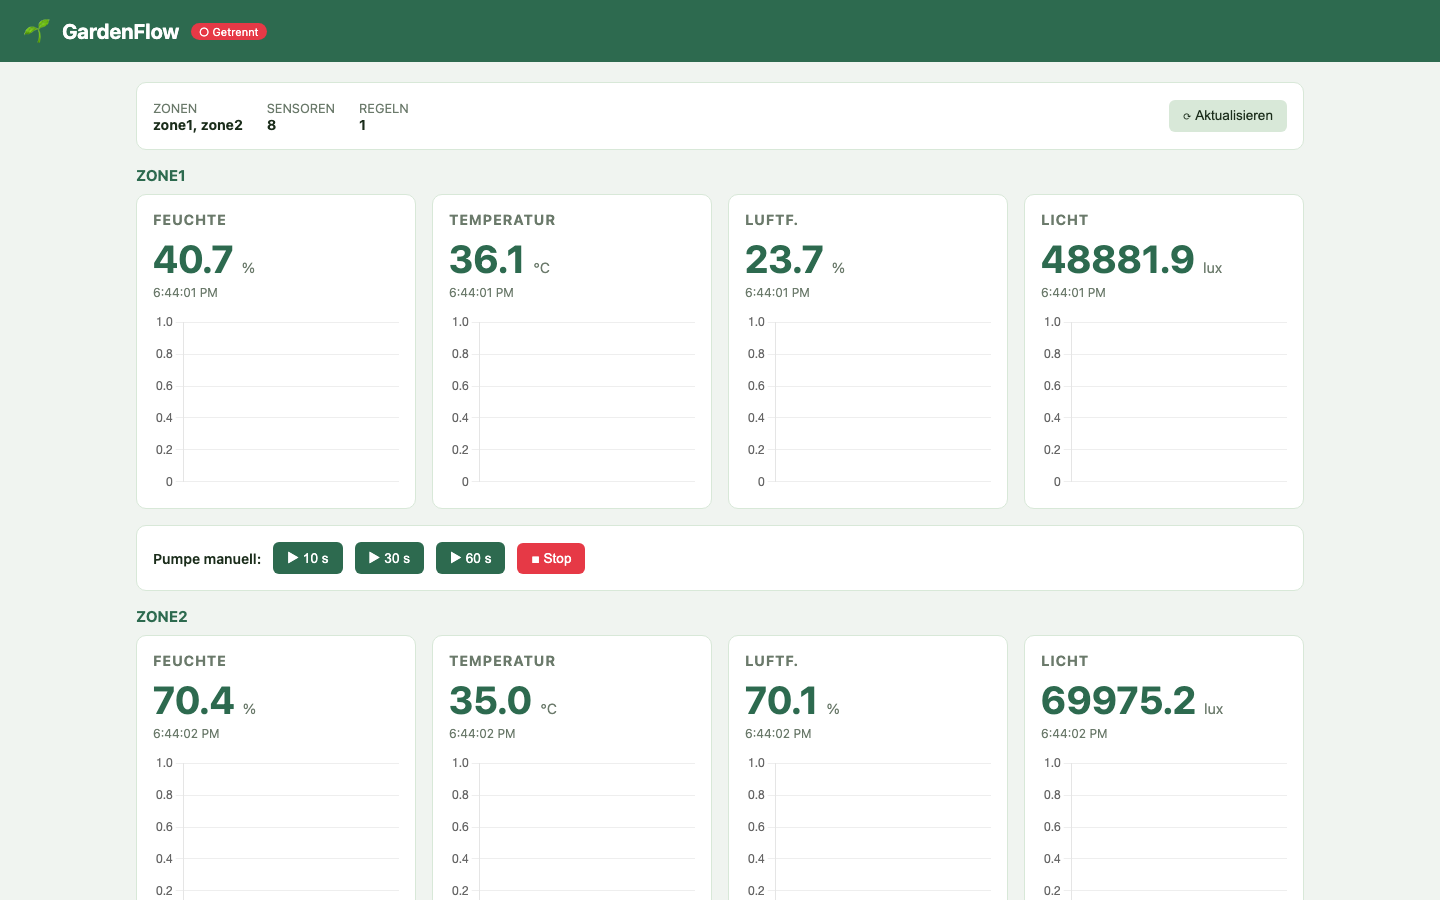
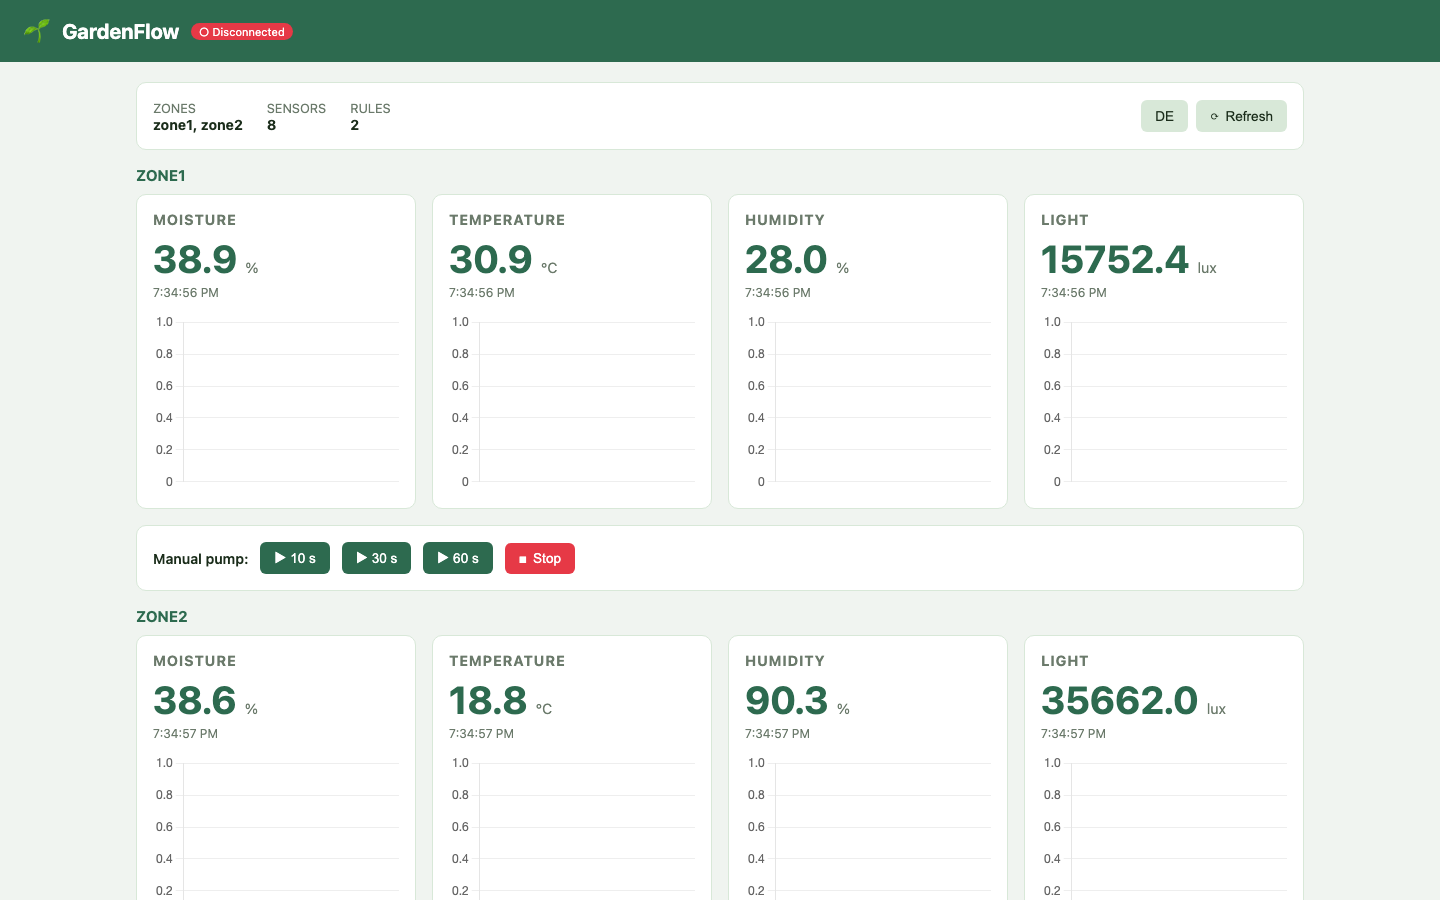
feat: add English/German language toggle to dashboard, default to English
The dashboard UI was hardcoded German with no way to switch language.
Adds a small translation dictionary in app.js, a language toggle button
next to Refresh, and persists the choice in localStorage. Defaults to
English so the primary README screenshot reflects a UI new users
without German actually see.

diff --git a/frontend/assets/app.js b/frontend/assets/app.js
@@ -2,6 +2,31 @@ const API  = window.location.origin;
 const WS   = (window.location.protocol === "https:" ? "wss://" : "ws://") + window.location.host + "/ws";
 const MAX_POINTS = 60;
 
+const TRANSLATIONS = {
+  en: {
+    live: "Live", disconnected: "Disconnected",
+    zones: "ZONES", sensors: "SENSORS", rules: "RULES", refresh: "Refresh",
+    waitingSensors: "Waiting for sensor data. Start",
+    waitingSensorsSuffix: "to simulate data.",
+    manualPump: "Manual pump:", stop: "Stop",
+    automationRules: "Automation Rules",
+    noRules: "No rules yet. Create one via",
+    confirmDeleteRule: "Delete rule?",
+    sensorTypes: { moisture: "Moisture", temperature: "Temperature", humidity: "Humidity", light: "Light" },
+  },
+  de: {
+    live: "Live", disconnected: "Getrennt",
+    zones: "ZONEN", sensors: "SENSOREN", rules: "REGELN", refresh: "Aktualisieren",
+    waitingSensors: "Warte auf Sensordaten. Starte",
+    waitingSensorsSuffix: "um Daten zu simulieren.",
+    manualPump: "Pumpe manuell:", stop: "Stop",
+    automationRules: "Automatisierungsregeln",
+    noRules: "Keine Regeln vorhanden. Erstelle eine via",
+    confirmDeleteRule: "Regel löschen?",
+    sensorTypes: { moisture: "Feuchte", temperature: "Temperatur", humidity: "Luftf.", light: "Licht" },
+  },
+};
+
 document.addEventListener("alpine:init", () => {
   Alpine.data("gardenflow", () => ({
     connected: false,
@@ -10,6 +35,16 @@ document.addEventListener("alpine:init", () => {
     rules: [],
     zones: [],
     charts: {},    // { "zone1.moisture": Chart }
+    lang: localStorage.getItem("gardenflow_lang") || "en",
+
+    // ---- i18n ----
+    t(key) {
+      return TRANSLATIONS[this.lang][key] ?? key;
+    },
+    toggleLang() {
+      this.lang = this.lang === "en" ? "de" : "en";
+      localStorage.setItem("gardenflow_lang", this.lang);
+    },
 
     // ---- Lifecycle ----
     async init() {
@@ -79,7 +114,7 @@ document.addEventListener("alpine:init", () => {
     },
 
     label(type) {
-      return { moisture: "Feuchte", temperature: "Temperatur", humidity: "Luftf.", light: "Licht" }[type] ?? type;
+      return TRANSLATIONS[this.lang].sensorTypes[type] ?? type;
     },
 
     // ---- Manual pump ----
@@ -112,7 +147,7 @@ document.addEventListener("alpine:init", () => {
       });
     },
     async deleteRule(id) {
-      if (!confirm("Regel löschen?")) return;
+      if (!confirm(this.t("confirmDeleteRule"))) return;
       await fetch(`${API}/api/rules/${id}`, { method: "DELETE" });
       await this.loadRules();
     },

diff --git a/frontend/index.html b/frontend/index.html
@@ -1,5 +1,5 @@
 <!DOCTYPE html>
-<html lang="de">
+<html lang="en">
 <head>
   <meta charset="UTF-8" />
   <meta name="viewport" content="width=device-width, initial-scale=1.0" />
@@ -15,34 +15,35 @@
   <header>
     <span style="font-size:1.6rem">🌱</span>
     <h1>GardenFlow</h1>
-    <span class="badge" :class="connected ? 'ok' : 'err'" x-text="connected ? '● Live' : '○ Getrennt'"></span>
+    <span class="badge" :class="connected ? 'ok' : 'err'" x-text="connected ? '● ' + t('live') : '○ ' + t('disconnected')"></span>
   </header>
 
   <main>
 
-    <!-- Status-Bar -->
+    <!-- Status bar -->
     <div class="card" style="display:flex;gap:24px;align-items:center;flex-wrap:wrap;">
       <div>
-        <span style="font-size:.8rem;color:var(--muted)">ZONEN</span>
+        <span style="font-size:.8rem;color:var(--muted)" x-text="t('zones')"></span>
         <div style="font-weight:700" x-text="zones.length ? zones.join(', ') : '—'"></div>
       </div>
       <div>
-        <span style="font-size:.8rem;color:var(--muted)">SENSOREN</span>
+        <span style="font-size:.8rem;color:var(--muted)" x-text="t('sensors')"></span>
         <div style="font-weight:700" x-text="Object.keys(sensors).length"></div>
       </div>
       <div>
-        <span style="font-size:.8rem;color:var(--muted)">REGELN</span>
+        <span style="font-size:.8rem;color:var(--muted)" x-text="t('rules')"></span>
         <div style="font-weight:700" x-text="rules.length"></div>
       </div>
-      <div style="margin-left:auto">
-        <button class="btn secondary" @click="loadRules()">⟳ Aktualisieren</button>
+      <div style="margin-left:auto;display:flex;gap:8px">
+        <button class="btn secondary" @click="toggleLang()" x-text="lang === 'en' ? 'DE' : 'EN'"></button>
+        <button class="btn secondary" @click="loadRules()">⟳ <span x-text="t('refresh')"></span></button>
       </div>
     </div>
 
-    <!-- Sensorkarten pro Zone -->
+    <!-- Sensor cards per zone -->
     <template x-if="zones.length === 0">
       <div class="card" style="text-align:center;color:var(--muted);padding:40px">
-        Warte auf Sensordaten… Starte <code>python tools/test_sensor.py</code> um Daten zu simulieren.
+        <span x-text="t('waitingSensors')"></span> <code>python tools/test_sensor.py</code> <span x-text="t('waitingSensorsSuffix')"></span>
       </div>
     </template>
 
@@ -68,23 +69,23 @@
           </template>
         </div>
 
-        <!-- Manuelle Pumpensteuerung -->
+        <!-- Manual pump control -->
         <div class="card" style="display:flex;align-items:center;gap:12px;flex-wrap:wrap">
-          <span style="font-weight:600">Pumpe manuell:</span>
+          <span style="font-weight:600" x-text="t('manualPump')"></span>
           <button class="btn" @click="pumpOn(zone, 10)">▶ 10 s</button>
           <button class="btn" @click="pumpOn(zone, 30)">▶ 30 s</button>
           <button class="btn" @click="pumpOn(zone, 60)">▶ 60 s</button>
-          <button class="btn danger" @click="pumpOff(zone)">■ Stop</button>
+          <button class="btn danger" @click="pumpOff(zone)">■ <span x-text="t('stop')"></span></button>
         </div>
       </div>
     </template>
 
-    <!-- Regelübersicht -->
+    <!-- Rules overview -->
     <div class="card">
-      <h2>Automatisierungsregeln</h2>
+      <h2 x-text="t('automationRules')"></h2>
       <template x-if="rules.length === 0">
         <p style="color:var(--muted);font-size:.85rem;margin-top:8px">
-          Keine Regeln vorhanden. Erstelle eine via <code>POST /api/rules</code>.
+          <span x-text="t('noRules')"></span> <code>POST /api/rules</code>.
         </p>
       </template>
       <template x-for="rule in rules" :key="rule.id">